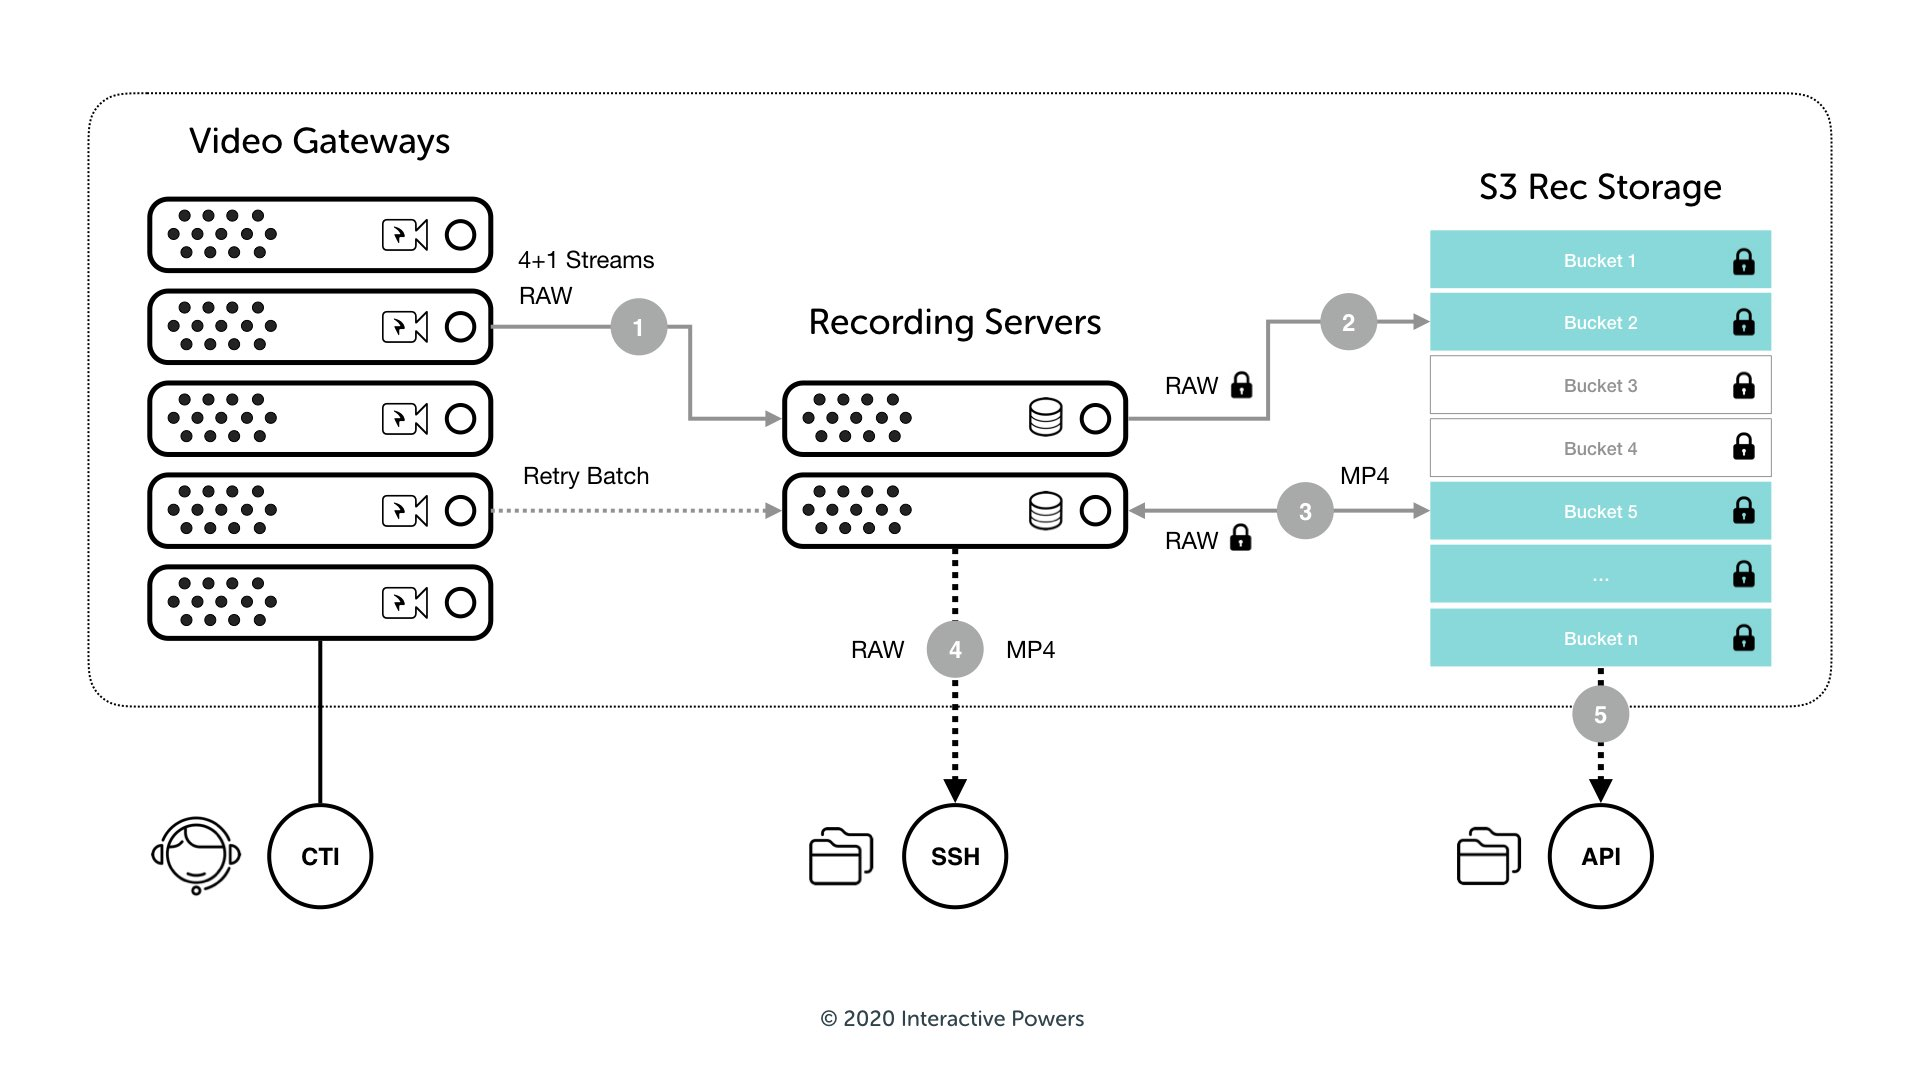
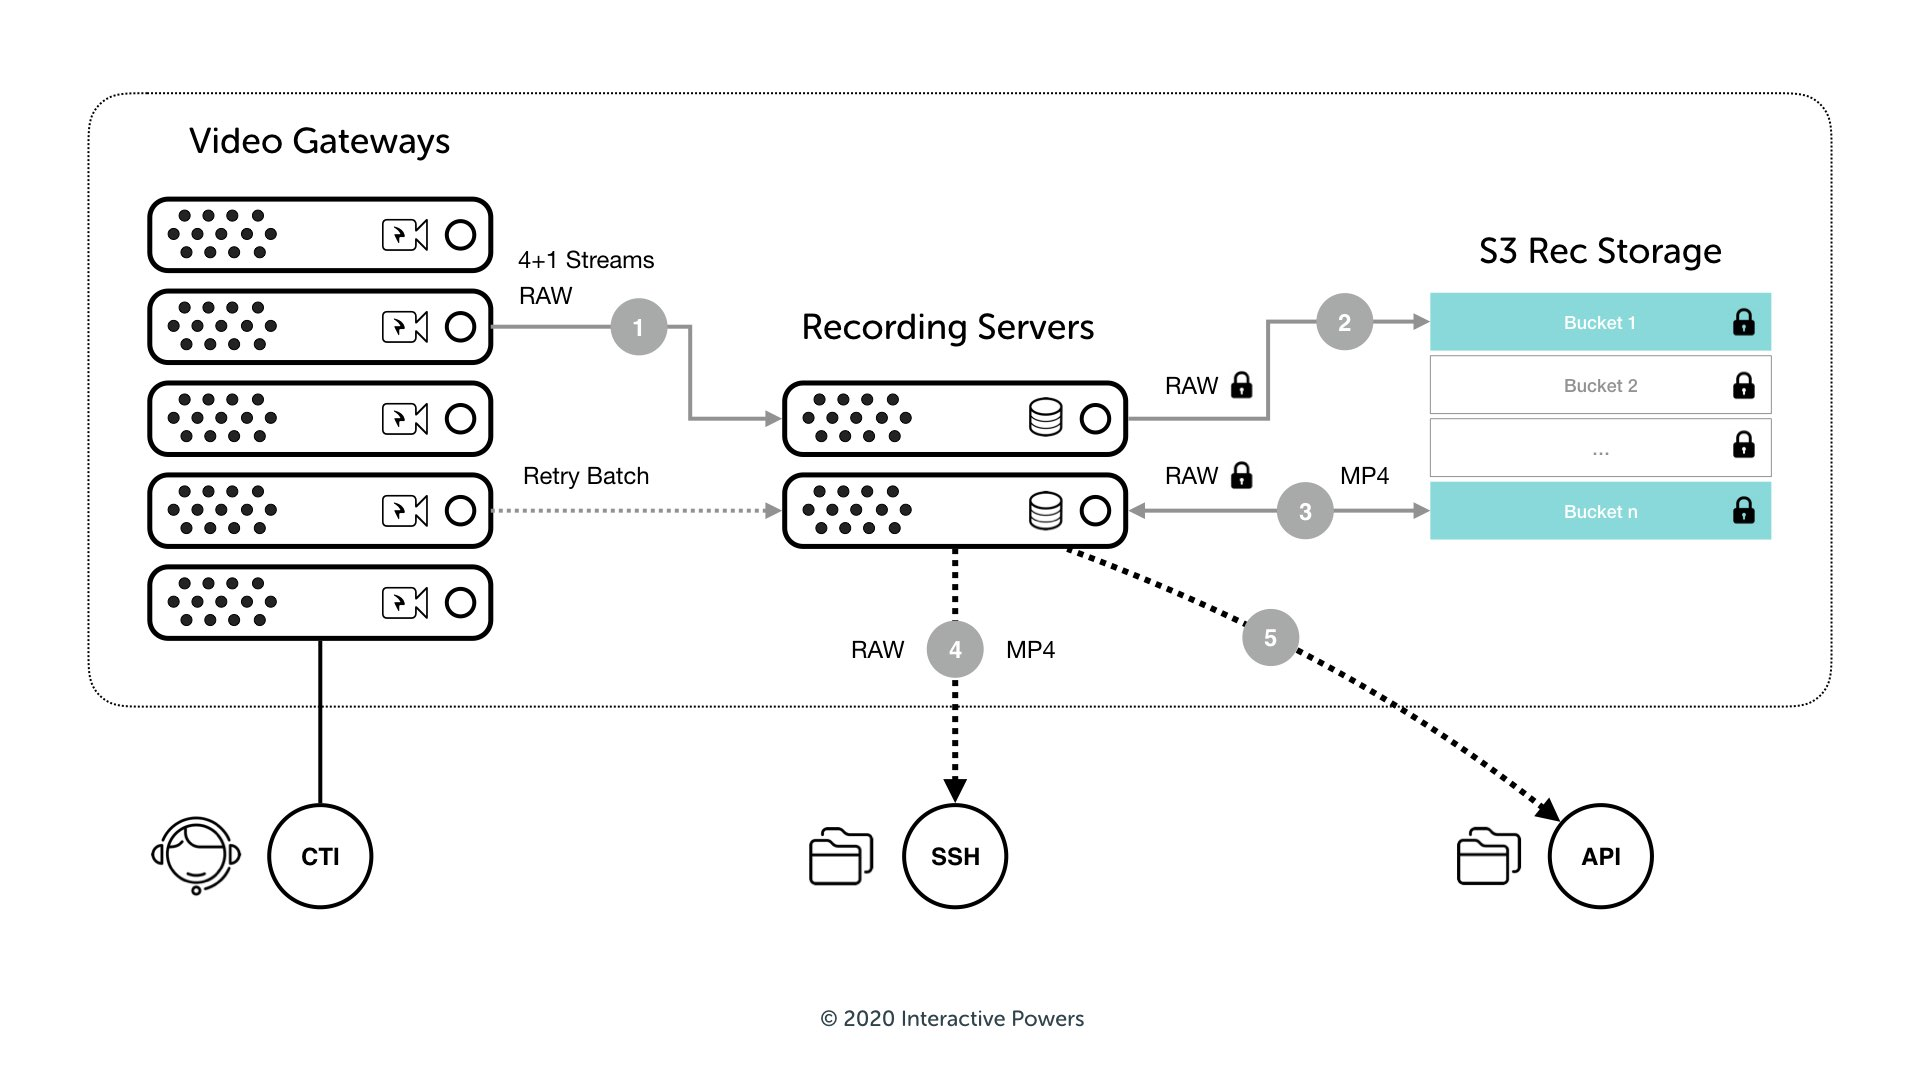
New Publish [14/01/2020 13:41]

diff --git a/post/products/video-recording/index.html b/post/products/video-recording/index.html
@@ -104,7 +104,7 @@
         },
         "datePublished": "2020-01-11",
         "dateModified": "2020-01-11",
-        "wordCount": 751,
+        "wordCount": 766,
         "keywords": ["cpaas","saas","cloud","videortc","webrtc"] 
     }
     </script>
@@ -177,7 +177,7 @@ html{font-family:sans-serif;line-height:1.15;-ms-text-size-adjust:100%;-webkit-t
 
   			<header class="post-header">
   				<span class="post-meta">
-						<span class="post-date">11 Jan 2020</span> <span class="reading-time">| <span class="estimated-reading-time">4 min.</span> (<span class="word-count">751</span> words)</span></span>
+						<span class="post-date">11 Jan 2020</span> <span class="reading-time">| <span class="estimated-reading-time">4 min.</span> (<span class="word-count">766</span> words)</span></span>
   				</span>
   				<div class="clear"></div>
   				<h1 class="post-title">Video RTC Recording</h1>
@@ -237,7 +237,7 @@ html{font-family:sans-serif;line-height:1.15;-ms-text-size-adjust:100%;-webkit-t
 <tr>
 <td>RAW</td>
 <td>Default</td>
-<td>Include 4 stream files + info file. Can be converted to WebM.</td>
+<td>Include 4 stream files + info file, ready to be converted to WebM.</td>
 </tr>
 
 <tr>
@@ -298,32 +298,34 @@ html{font-family:sans-serif;line-height:1.15;-ms-text-size-adjust:100%;-webkit-t
 <table>
 <thead>
 <tr>
-<th>Pack</th>
+<th>Unit Pack</th>
 <th>Size</th>
-<th> Description</th>
+<th> File Formats</th>
 </tr>
 </thead>
 
 <tbody>
 <tr>
-<td>RecStorage1</td>
+<td>RecStorage100</td>
 <td>100 Gb</td>
-<td>Dedicated S3 Bucket </td>
+<td>RAW + MP4</td>
 </tr>
 
 <tr>
-<td>RecStorage2</td>
+<td>RecStorage500</td>
 <td>500 Gb</td>
-<td>Dedicated S3 Bucket </td>
+<td>RAW + MP4</td>
 </tr>
 
 <tr>
-<td>RecStorage3</td>
+<td>RecStorage1000</td>
 <td>1 Tb</td>
-<td>Dedicated S3 Bucket </td>
+<td>RAW + MP4</td>
 </tr>
 </tbody>
 </table>
+
+<p>To request any more storage capacity, please contact our Sales team.</p>
 
 <h2 id="how-does-it-work">How does it work?</h2>
 
@@ -339,7 +341,7 @@ html{font-family:sans-serif;line-height:1.15;-ms-text-size-adjust:100%;-webkit-t
 
 <p>The Video Gateway converts each stream to a regular RAW files that can be transferred to an external S3 bucket. Along with the videocall index file, a unique session ID generated by the Video Gateway (WebRTC) is linked too. The process start once the call hangout event is activated, a job is in charge to ensure all streams are properly ZIP / tar.gz archived once completed.</p>
 
-<h3 id="step-3-mp4-webm-on-demand-access">Step 3. MP4 / WebM on demand access</h3>
+<h3 id="step-3-mp4-raw-on-demand-access">Step 3. MP4 / RAW on demand access</h3>
 
 <p>All Video Stream in RAW can only be played by the Video Gateway convertor or dual-player. To get a unique file in MP4 (video &amp; audio) or MP3 (audio) you can ask the Video Recording Service to generate it from the S3 bucket. This format can played on most existing video players and is easier to manage and store in an external system if required. The MP4 file includes both the agent and the user video mixed.</p>
 
@@ -349,7 +351,7 @@ html{font-family:sans-serif;line-height:1.15;-ms-text-size-adjust:100%;-webkit-t
 
 <h3 id="step-5-s3-bucket-api-access">Step 5. S3 Bucket API access</h3>
 
-<p>Customers can have access to manage their contents on their own S3 Buckets in order to connect files recorded with external usages or systems. This function is using AWS secure API and tools.</p>
+<p>Customers can have access to manage their own contents in order to get RAW or MP4 files recorded for external usages or systems. Each service has an account and all functions are running over AWS secure API and tools.</p>
 
 <h2 id="key-benefits">Key Benefits</h2>
 
@@ -357,7 +359,7 @@ html{font-family:sans-serif;line-height:1.15;-ms-text-size-adjust:100%;-webkit-t
 
 <h3 id="real-time-video-recording">Real-time Video Recording</h3>
 
-<p>You can record all your calls in real time from the video gateway and access your archives immediately once released in the WebM format used for WebRTC.</p>
+<p>You can record all your calls in real time from the video gateway and access your archives immediately once released in the RAW format used by our WebRTC gateways.</p>
 
 <h3 id="storage-distribution">Storage Distribution</h3>
 
@@ -375,7 +377,7 @@ html{font-family:sans-serif;line-height:1.15;-ms-text-size-adjust:100%;-webkit-t
 
 <h2 id="video-split-for-contact-centers">Video SPLIT for Contact Centers</h2>
 
-<p>This operation mode has various advantages when integrating the Video channel into an existing Contact Center strategy, namely: Agents can use their regular phone to receive the audio stream of video calls like any other regular call treatment, routing strategies, IVR flows, ACD distribution, etc.. already implemented in the telephony system can be leveraged to process Video Interactions, since the audio part is seen by this system as a regular call.</p>
+<p>This operation mode has various advantages when integrating the video channel into an existing Contact Center strategy, namely: Agents can use their regular phone to receive the audio stream of video calls like any other regular call treatment, routing strategies, IVR flows, ACD distribution, etc.. Now, you can have all your recording data properly stored and avaiable at any time without any complex processes.</p>
 
 <hr />
 
@@ -481,7 +483,7 @@ html{font-family:sans-serif;line-height:1.15;-ms-text-size-adjust:100%;-webkit-t
 <ul>
 <li><a href="#step-1-stream-recording">Step 1. Stream recording</a></li>
 <li><a href="#step-2-s3-bucket-archiving">Step 2. S3 Bucket archiving</a></li>
-<li><a href="#step-3-mp4-webm-on-demand-access">Step 3. MP4 / WebM on demand access</a></li>
+<li><a href="#step-3-mp4-raw-on-demand-access">Step 3. MP4 / RAW on demand access</a></li>
 <li><a href="#step-4-ssh-ftp-batch-exportation">Step 4. SSH / FTP Batch Exportation</a></li>
 <li><a href="#step-5-s3-bucket-api-access">Step 5. S3 Bucket API access</a></li>
 </ul></li>
